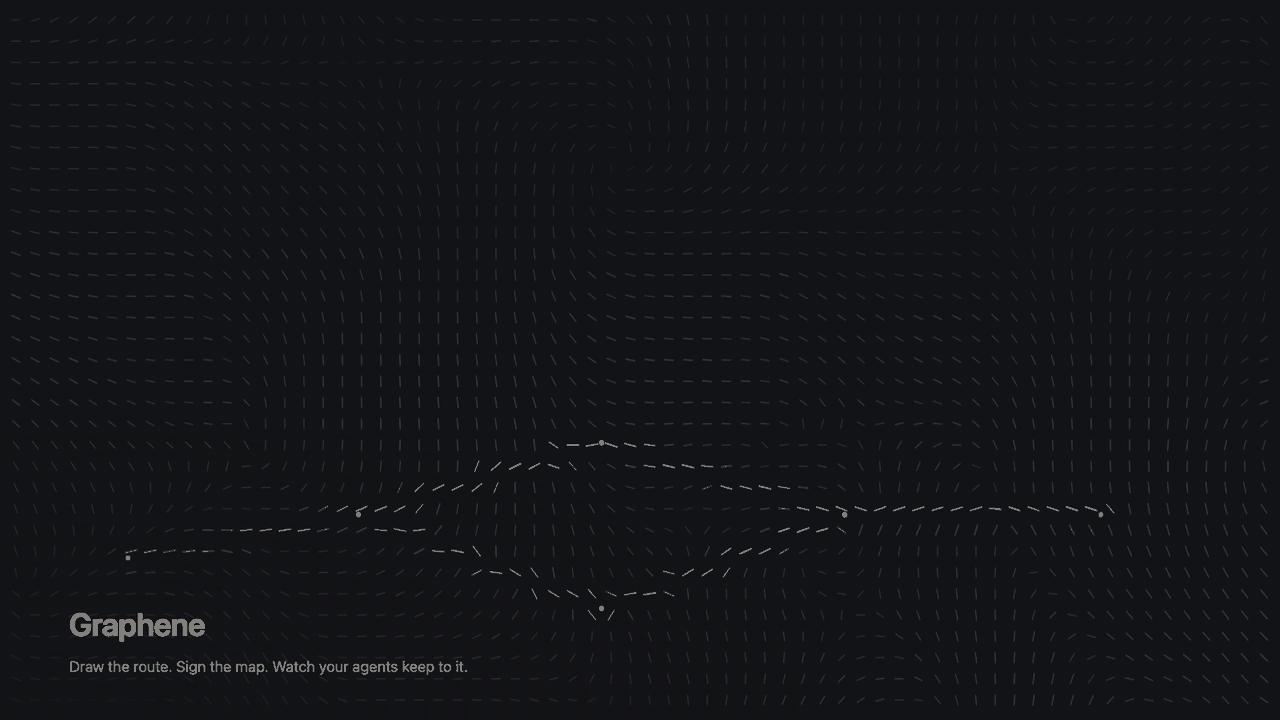
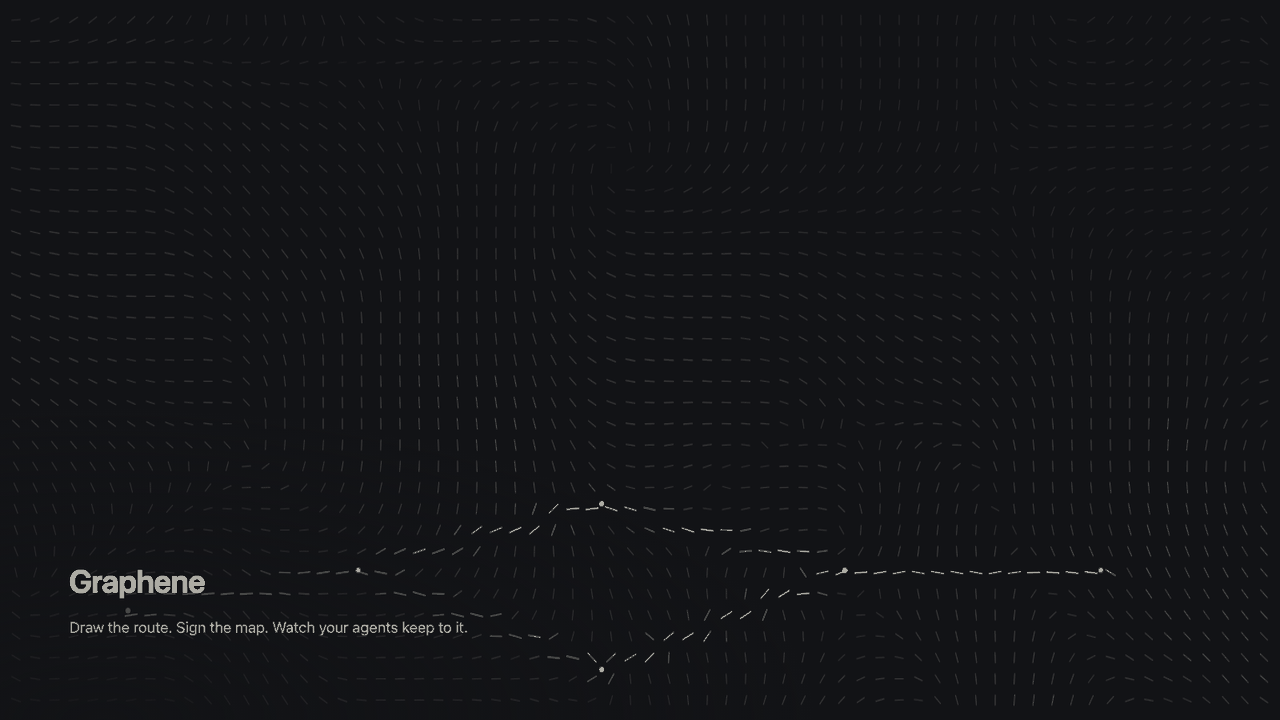
responsive, reduced-motion and no-JS fixes found by looking at renders
- one container class, so the text column, the figures, the terminal blocks and
  the proof table all share one left edge. Before this the section headings sat
  at a different margin from their own figures.
- the graphs are drawn by default and only hidden once JS has confirmed it can
  animate them back in, so with scripting off you get complete diagrams instead
  of nodes with no edges.
- arrowheads are part of the animated edge path, so they arrive with the line
  instead of before it.
- hero copy is top-aligned and the hidden DAG moved to 0.70-0.93 of the canvas,
  which keeps the resolved graph clear of the headline and buttons.
- the video slot used object-fit: cover, which zoomed and cropped the poster.
  contain fixes it; the poster wordmark moved up to clear the control bar.
- narrow viewports get a 'scroll sideways' label on the blocks that scroll.

Measured: at a true 380px viewport (checked in an iframe, because Chrome on
macOS clamps a real window to 500px) nothing overflows and scrollWidth equals
the viewport. Under prefers-reduced-motion the field paints one static frame
with the DAG resolved and the accent node visible.

Still not measured: Lighthouse.

diff --git a/index.html b/index.html
@@ -17,6 +17,7 @@
 <link rel="icon" href="assets/favicon.svg" type="image/svg+xml">
 <link rel="alternate icon" href="assets/favicon.png" sizes="32x32">
 <link rel="stylesheet" href="assets/site.css">
+<script>document.documentElement.className = "js";</script>
 </head>
 <body>
 <a class="skip" href="#main">Skip to content</a>
@@ -84,22 +85,13 @@
 <title id="dag-a-t">The demo mission as a directed graph</title>
 <desc id="dag-a-d">Left to right: goal, plan revision 1, two parallel worker tasks implement_report_json and implement_report_markdown, then assemble, then verify, then an isolated result commit. implement_report_json shows attempt 2 at fence 2 because its first check failed and the retry was authorised.</desc>
 <g class="edges">
-<path class="edge" style="--len:164" d="M 98.0 165.0 L 262.0 165.0"/>
-<path class="edge" style="--len:220" d="M 287.2 160.4 L 492.8 82.6"/>
-<path class="edge" style="--len:220" d="M 287.2 169.6 L 492.8 247.4"/>
-<path class="edge" style="--len:225" d="M 517.2 82.5 L 727.8 160.5"/>
-<path class="edge" style="--len:225" d="M 517.2 247.5 L 727.8 169.5"/>
-<path class="edge" style="--len:134" d="M 753.0 165.0 L 887.0 165.0"/>
-<path class="edge" style="--len:139" d="M 913.0 165.0 L 1052.0 165.0"/>
-</g>
-<g class="heads">
-<path class="head" transform="translate(262.0 165.0) rotate(0.0)" d="M -5.5 -3.4 L 0 0 L -5.5 3.4"/>
-<path class="head" transform="translate(492.8 82.6) rotate(-20.7)" d="M -5.5 -3.4 L 0 0 L -5.5 3.4"/>
-<path class="head" transform="translate(492.8 247.4) rotate(20.7)" d="M -5.5 -3.4 L 0 0 L -5.5 3.4"/>
-<path class="head" transform="translate(727.8 160.5) rotate(20.3)" d="M -5.5 -3.4 L 0 0 L -5.5 3.4"/>
-<path class="head" transform="translate(727.8 169.5) rotate(-20.3)" d="M -5.5 -3.4 L 0 0 L -5.5 3.4"/>
-<path class="head" transform="translate(887.0 165.0) rotate(0.0)" d="M -5.5 -3.4 L 0 0 L -5.5 3.4"/>
-<path class="head" transform="translate(1052.0 165.0) rotate(0.0)" d="M -5.5 -3.4 L 0 0 L -5.5 3.4"/>
+<path class="edge" style="--len:175" d="M 98.0 165.0 L 262.0 165.0 M 256.5 168.3 L 262.0 165.0 L 256.5 161.7"/>
+<path class="edge" style="--len:231" d="M 287.2 160.4 L 492.8 82.6 M 488.9 87.6 L 492.8 82.6 L 486.5 81.5"/>
+<path class="edge" style="--len:231" d="M 287.2 169.6 L 492.8 247.4 M 486.5 248.5 L 492.8 247.4 L 488.9 242.4"/>
+<path class="edge" style="--len:236" d="M 517.2 82.5 L 727.8 160.5 M 721.5 161.7 L 727.8 160.5 L 723.8 155.5"/>
+<path class="edge" style="--len:236" d="M 517.2 247.5 L 727.8 169.5 M 723.8 174.5 L 727.8 169.5 L 721.5 168.3"/>
+<path class="edge" style="--len:145" d="M 753.0 165.0 L 887.0 165.0 M 881.5 168.3 L 887.0 165.0 L 881.5 161.7"/>
+<path class="edge" style="--len:150" d="M 913.0 165.0 L 1052.0 165.0 M 1046.5 168.3 L 1052.0 165.0 L 1046.5 161.7"/>
 </g>
 <circle class="node" cx="85" cy="165" r="7"/>
 <circle class="node" cx="275" cy="165" r="7"/>
@@ -142,22 +134,13 @@
 <title id="dag-b-t">An illustrative rate-limiting mission as a directed graph</title>
 <desc id="dag-b-d">A scout task feeds two implementation tasks, rate_limit_middleware and rate_limit_config; both feed a tests task, the config task also feeds a docs task, and tests and docs both feed a verify task. Each node shows how many paths it may read and write.</desc>
 <g class="edges">
-<path class="edge" style="--len:237" d="M 112.4 155.9 L 337.6 82.1"/>
-<path class="edge" style="--len:237" d="M 112.4 164.1 L 337.6 237.9"/>
-<path class="edge" style="--len:264" d="M 363.0 78.0 L 627.0 78.0"/>
-<path class="edge" style="--len:307" d="M 361.3 235.6 L 628.7 84.4"/>
-<path class="edge" style="--len:264" d="M 363.0 242.0 L 627.0 242.0"/>
-<path class="edge" style="--len:247" d="M 652.4 81.9 L 887.6 156.1"/>
-<path class="edge" style="--len:247" d="M 652.4 238.1 L 887.6 163.9"/>
-</g>
-<g class="heads">
-<path class="head" transform="translate(337.6 82.1) rotate(-18.2)" d="M -5.5 -3.4 L 0 0 L -5.5 3.4"/>
-<path class="head" transform="translate(337.6 237.9) rotate(18.2)" d="M -5.5 -3.4 L 0 0 L -5.5 3.4"/>
-<path class="head" transform="translate(627.0 78.0) rotate(0.0)" d="M -5.5 -3.4 L 0 0 L -5.5 3.4"/>
-<path class="head" transform="translate(628.7 84.4) rotate(-29.5)" d="M -5.5 -3.4 L 0 0 L -5.5 3.4"/>
-<path class="head" transform="translate(627.0 242.0) rotate(0.0)" d="M -5.5 -3.4 L 0 0 L -5.5 3.4"/>
-<path class="head" transform="translate(887.6 156.1) rotate(17.5)" d="M -5.5 -3.4 L 0 0 L -5.5 3.4"/>
-<path class="head" transform="translate(887.6 163.9) rotate(-17.5)" d="M -5.5 -3.4 L 0 0 L -5.5 3.4"/>
+<path class="edge" style="--len:248" d="M 112.4 155.9 L 337.6 82.1 M 333.4 86.9 L 337.6 82.1 L 331.4 80.6"/>
+<path class="edge" style="--len:248" d="M 112.4 164.1 L 337.6 237.9 M 331.4 239.4 L 337.6 237.9 L 333.4 233.1"/>
+<path class="edge" style="--len:275" d="M 363.0 78.0 L 627.0 78.0 M 621.5 81.3 L 627.0 78.0 L 621.5 74.7"/>
+<path class="edge" style="--len:318" d="M 361.3 235.6 L 628.7 84.4 M 625.5 90.0 L 628.7 84.4 L 622.3 84.2"/>
+<path class="edge" style="--len:275" d="M 363.0 242.0 L 627.0 242.0 M 621.5 245.3 L 627.0 242.0 L 621.5 238.7"/>
+<path class="edge" style="--len:258" d="M 652.4 81.9 L 887.6 156.1 M 881.4 157.6 L 887.6 156.1 L 883.3 151.3"/>
+<path class="edge" style="--len:258" d="M 652.4 238.1 L 887.6 163.9 M 883.3 168.7 L 887.6 163.9 L 881.4 162.4"/>
 </g>
 <circle class="node" cx="100" cy="160" r="7"/>
 <circle class="node" cx="350" cy="78" r="7"/>
@@ -205,22 +188,13 @@
 <title id="dag-c-t">The same plan at revision 1 and revision 2, with different digests</title>
 <desc id="dag-c-d">Two copies of the same four-node plan. Revision 2 adds a docs task and an edge from it into assemble, drawn in the accent colour. Underneath, the two plan_sha256 digests are shown: they share no prefix.</desc>
 <g class="edges">
-<path class="edge" style="--len:159" d="M 82.6 49.1 L 237.4 86.9"/>
-<path class="edge" style="--len:159" d="M 82.6 130.9 L 237.4 93.1"/>
-<path class="edge" style="--len:124" d="M 263.0 90.0 L 387.0 90.0"/>
-<path class="edge" style="--len:159" d="M 682.6 49.1 L 837.4 86.9"/>
-<path class="edge" style="--len:159" d="M 682.6 130.9 L 837.4 93.1"/>
-<path class="edge" style="--len:124" d="M 863.0 90.0 L 987.0 90.0"/>
-<path class="edge-new" style="--len:197" d="M 680.5 214.3 L 839.5 97.7"/>
-</g>
-<g class="heads">
-<path class="head" transform="translate(237.4 86.9) rotate(13.7)" d="M -5.5 -3.4 L 0 0 L -5.5 3.4"/>
-<path class="head" transform="translate(237.4 93.1) rotate(-13.7)" d="M -5.5 -3.4 L 0 0 L -5.5 3.4"/>
-<path class="head" transform="translate(387.0 90.0) rotate(0.0)" d="M -5.5 -3.4 L 0 0 L -5.5 3.4"/>
-<path class="head" transform="translate(837.4 86.9) rotate(13.7)" d="M -5.5 -3.4 L 0 0 L -5.5 3.4"/>
-<path class="head" transform="translate(837.4 93.1) rotate(-13.7)" d="M -5.5 -3.4 L 0 0 L -5.5 3.4"/>
-<path class="head" transform="translate(987.0 90.0) rotate(0.0)" d="M -5.5 -3.4 L 0 0 L -5.5 3.4"/>
-<path class="head-new" transform="translate(839.5 97.7) rotate(-36.3)" d="M -5.5 -3.4 L 0 0 L -5.5 3.4"/>
+<path class="edge" style="--len:170" d="M 82.6 49.1 L 237.4 86.9 M 231.2 88.8 L 237.4 86.9 L 232.8 82.4"/>
+<path class="edge" style="--len:170" d="M 82.6 130.9 L 237.4 93.1 M 232.8 97.6 L 237.4 93.1 L 231.2 91.2"/>
+<path class="edge" style="--len:135" d="M 263.0 90.0 L 387.0 90.0 M 381.5 93.3 L 387.0 90.0 L 381.5 86.7"/>
+<path class="edge" style="--len:170" d="M 682.6 49.1 L 837.4 86.9 M 831.2 88.8 L 837.4 86.9 L 832.8 82.4"/>
+<path class="edge" style="--len:170" d="M 682.6 130.9 L 837.4 93.1 M 832.8 97.6 L 837.4 93.1 L 831.2 91.2"/>
+<path class="edge" style="--len:135" d="M 863.0 90.0 L 987.0 90.0 M 981.5 93.3 L 987.0 90.0 L 981.5 86.7"/>
+<path class="edge-new" style="--len:208" d="M 680.5 214.3 L 839.5 97.7 M 837.0 103.6 L 839.5 97.7 L 833.1 98.3"/>
 </g>
 <circle class="node" cx="70" cy="46" r="7"/>
 <circle class="node" cx="70" cy="134" r="7"/>
@@ -369,20 +343,20 @@ TRUST: every line above is derived from hash-chained mission events and resolvab
         <tr><td>Mission capsule export and cold verification</td><td><span class="label yes">verified_live_cold</span><br>MISSION CAPSULE — COLD-VERIFIED FROM A CLEAN CHECKOUT ON LIVE GEMINI MISSIONS; INTERNAL CONSISTENCY, NOT PRODUCER AUTHENTICITY</td></tr>
         <tr><td>Final bundle verification receipt</td><td><span class="label yes">verified_local</span><br>register_final_result_bundle fails closed unless a repository-aware recompute is bound, runs it, and issues a FinalBundleVerificationReceiptV1 into the FINAL_RESULT_BUNDLE_READY event. Approval, rejection and cold verification all refuse a bundle that does not carry a server receipt binding it exactly. The adversarial test that used to document the hole now enforces the fix.</td></tr>
         <tr><td>Planner reads the commit workers clone</td><td><span class="label yes">verified_local</span><br>Planning reads the manifest from `git ls-tree -r -l -z --full-tree &lt;base_sha&gt;` and excerpt bytes from `git cat-file blob`, so the planner sees exactly the commit the workers clone and detach to. Tracked or staged drift from that commit is rejected by name before any byte is selected. No path under the repository is opened during planning, which removes the intermediate-directory-symlink escape by construction rather than by a stronger open().</td></tr>
-        <tr><td>Working-tree integrity (v2 store, tree hashing)</td><td><span class="label yes">credential_free_release_matrix_verified</span><br></td></tr>
+        <tr><td>Working-tree integrity (v2 store, tree hashing)</td><td><span class="label yes">credential_free_release_matrix_verified</span><br>Only check.completed from the check-runner authority can bind deterministic success to the exact attempt/fence, plan/policy, inputs, template, candidate tree, and result.</td></tr>
         <tr><td>Mission path: live Gemini ADK planner</td><td><span class="label yes">verified_live</span><br>VERIFIED LIVE — gemini-3.5-flash ON VERTEX AI (global); TWO WORKERS WITH EVIDENCE-BOUND RECEIPTS AND DUAL-CLOCK OVERLAP; OPERATOR-DELEGATED (server_derived) APPROVAL, NOT HUMAN-ATTESTED</td></tr>
         <tr><td>Mission path: ADK runner, deterministic fake planner</td><td><span class="label yes">verified_local</span><br>REAL ADK RUNNER + DETERMINISTIC FAKE PLANNER — NOT GEMINI OR MODEL-WORKER PROOF</td></tr>
         <tr><td>Mission path: scripted local fixture</td><td><span class="label yes">verified_local</span><br>SCRIPTED LOCAL MISSION FIXTURE — NOT GEMINI, ARBITRARY-REPOSITORY, OR CLOUD PROOF</td></tr>
         <tr><td>Mission path: verified mission replay</td><td><span class="label yes">verified_local</span><br>VERIFIED MISSION REPLAY — GENERATED SCRIPTED FIXTURE; NO LIVE AGENT, HUMAN ATTESTATION, NEW TEST EXECUTION, GEMINI, OR CLOUD</td></tr>
         <tr><td>Watcher (inbox and GitHub issue triggers)</td><td><span class="label yes">verified_local</span><br>WATCHER — VERIFIED_LOCAL ON FIXTURES; LIVE GITHUB POLLING NOT PROVEN</td></tr>
         <tr><td>Cloud check authority</td><td><span class="label part">executor_attested</span><br>For the cloud dispatch path an authenticated remote executor is part of the trusted computing base. The coordinator recomputes the receipt&#x27;s bindings — mission/task/attempt/plan/fence/policy identity, the exact publication envelopes, and the receipt-to-evidence digest — and does NOT recompute template_sha256, candidate_tree_sha256, output_sha256, exit_code, timed_out or cleanup_complete, nor re-run any check. A hand-built passing receipt with arbitrary digests is accepted at this boundary by design. Every successful cloud completion records check_authority: executor_attested in the committed task.completed payload, inside payload_sha256 and the event_sha256 chain.</td></tr>
-        <tr><td>Cloud abandon and second-executor transitions</td><td><span class="label yes">fails_closed</span><br></td></tr>
+        <tr><td>Cloud abandon and second-executor transitions</td><td><span class="label yes">fails_closed</span><br>Refused at registration with MultiExecutorUnsupported -&gt; 409 MULTI_EXECUTOR_UNSUPPORTED. One mission-wide expected head means a second executor&#x27;s claim would conflict at a random later moment; it now fails closed immediately with a named reason. Same-id reconnect still works and a session idle past the lease bound stops blocking. Cloud parallelism is NOT claimed anywhere.</td></tr>
         <tr><td>Docker isolated executor</td><td><span class="label no">not_proven</span><br>NOT PROVEN — RESPONSIVE DAEMON AND BUILT IMMUTABLE IMAGE REQUIRED</td></tr>
         <tr><td>Cloud Run and Firestore deployment</td><td><span class="label no">not_deployed</span><br>NOT DEPLOYED — AUTHORIZED PROJECT, GCLOUD, DEPLOYMENT, AND CAPTURED SMOKE REQUIRED</td></tr>
         <tr><td>Live cloud delivery gate</td><td><span class="label no">not_deployed</span><br>Cloud Run/real Firestore requires an explicitly authorized project and captured authenticated smoke; packaging, unit tests, and the verified official emulator are not deployment proof.</td></tr>
         <tr><td>Graph economics benchmark</td><td><span class="label no">not_proven</span><br>The equal-quality-gate, three-mode, non-overwriting harness has a credential-free unit test. No real repeated run, token/cost/latency result, median, or P95 is claimed.</td></tr>
         <tr><td>Shadow agent (Claude Code ingest)</td><td><span class="label no">not_proven</span><br>SHADOW AGENT v0 — NDJSON AND CLAUDE-CODE ADAPTERS VERIFIED LOCALLY ON SYNTHETIC FIXTURES; REAL CLAUDE CODE SESSION INGESTED ONLY IN A PRIVATE COUNTS-ONLY SMOKE, NOT PROVEN</td></tr>
-        <tr><td>Product media and submission video</td><td><span class="label no">not_proven_capture_pending</span><br></td></tr>
+        <tr><td>Product media and submission video</td><td><span class="label no">not_proven_capture_pending</span><br>docs/assets/demo-capture.json records the verified replay source/checkpoint, but no reproducible screenshot, GIF, or four-minute submission video has completed. No product media or video proof is claimed.</td></tr>
       </tbody>
     </table>
     <p class="small muted">Deferred, and not claimed anywhere:</p>
@@ -401,7 +375,7 @@ TRUST: every line above is derived from hash-chained mission events and resolvab
 <!--DEMOSLOT-->
     <div class="slot">
       <video controls preload="none" poster="assets/poster.png"
-             width="1600" height="900">
+             width="1280" height="720">
         <source src="assets/demo.mp4" type="video/mp4">
         <p>Your browser cannot play this video. <a href="assets/demo.mp4">Download it instead.</a></p>
       </video>

diff --git a/assets/site.css b/assets/site.css
@@ -40,14 +40,14 @@ p, figcaption, .term-cap, .digests, .fields, ul.deferred { max-width: var(--meas
 
 /* ---- hero --------------------------------------------------------- */
 
-.hero { position: relative; min-height: min(70vh, 860px); display: flex; align-items: center; }
+.hero { position: relative; min-height: min(78vh, 900px); display: flex; align-items: flex-start; }
 .hero canvas { position: absolute; inset: 0; width: 100%; height: 100%; display: block; }
 /* the one gradient on the page: a vignette under 4% luminance */
 .hero::after {
   content: ""; position: absolute; inset: 0; pointer-events: none;
   background: radial-gradient(120% 90% at 50% 30%, transparent 55%, rgba(0,0,0,.12));
 }
-.hero .wrap { position: relative; z-index: 1; padding-block: 96px 120px; }
+.hero .wrap { position: relative; z-index: 1; padding-block: 104px 140px; }
 .hero .mark { font-weight: 600; letter-spacing: -.01em; margin: 0 0 26px; font-size: 1.05rem; }
 
 h1 {
@@ -93,25 +93,27 @@ figure:first-of-type { margin-top: 40px; }
 figcaption { color: var(--ink-muted); font-size: .88rem; margin-top: 14px; max-width: 68ch; }
 figcaption b { color: var(--ink); font-weight: 600; }
 
-.dag .edge { fill: none; stroke: var(--ink-muted); stroke-width: 1; }
+.dag .edge { fill: none; stroke: var(--ink-muted); stroke-width: 1;
+             stroke-linecap: round; stroke-linejoin: round; }
 .dag .edge-new { stroke: var(--accent); stroke-width: 1.25; }
 .dag .node { fill: var(--bg-raised); stroke: var(--ink); stroke-width: 1.25; }
 .dag .node-new { stroke: var(--accent); }
 .dag .lbl { fill: var(--ink); font: 400 13px/1 var(--font-mono); }
 .dag .sub { fill: var(--ink-muted); font: 400 11px/1 var(--font-sans); }
-.dag .head { fill: none; stroke: var(--ink-muted); stroke-width: 1;
-             stroke-linecap: round; stroke-linejoin: round; opacity: 0; }
-.dag .head-new { fill: none; stroke: var(--accent); stroke-width: 1.25;
-                 stroke-linecap: round; stroke-linejoin: round; opacity: 0; }
-.dag.in .head, .dag.in .head-new { opacity: 1; transition: opacity 400ms 700ms linear; }
 .dag .glyph { fill: var(--ink); font: 400 12px/1 var(--font-mono); }
 .dag .glyph-accent { fill: var(--accent); }
 .dag .lane { stroke: var(--hairline); stroke-width: 1; }
 .dag .lane-lbl { fill: var(--ink-muted); font: 400 10px/1 var(--font-sans); letter-spacing: .08em; text-transform: uppercase; }
 
-/* one-shot draw-in, never a loop */
-.dag .edge, .dag .edge-new { stroke-dasharray: var(--len, 400); stroke-dashoffset: var(--len, 400); }
-.dag.in .edge, .dag.in .edge-new { transition: stroke-dashoffset 900ms cubic-bezier(.2,.7,.3,1); stroke-dashoffset: 0; }
+/* One-shot draw-in, never a loop. Only hidden once JS has confirmed it can
+   reveal them again, so the graphs are complete with scripting off. */
+.js .dag:not(.in) .edge, .js .dag:not(.in) .edge-new {
+  stroke-dasharray: var(--len, 400); stroke-dashoffset: var(--len, 400);
+}
+.js .dag.in .edge, .js .dag.in .edge-new {
+  stroke-dasharray: var(--len, 400);
+  transition: stroke-dashoffset 900ms cubic-bezier(.2,.7,.3,1); stroke-dashoffset: 0;
+}
 
 /* ---- contract field table ----------------------------------------- */
 
@@ -157,22 +159,33 @@ pre b { font-weight: 400; color: var(--accent); }
 /* ---- video -------------------------------------------------------- */
 
 .slot { border: 1px solid var(--hairline); background: var(--bg-raised); }
-.slot video, .slot img { display: block; width: 100%; aspect-ratio: 16 / 9; object-fit: cover; }
+.slot video, .slot img { display: block; width: 100%; height: auto; aspect-ratio: 16 / 9;
+                         object-fit: contain; background: var(--bg); }
 
 /* ---- footer ------------------------------------------------------- */
 
 footer { border-top: 1px solid var(--hairline); padding: 40px 0 64px; color: var(--ink-muted); font-size: .88rem; }
 footer ul { display: flex; flex-wrap: wrap; gap: 20px; margin: 10px 0 0; padding: 0; list-style: none; }
 
+@media (max-width: 760px) {
+  #loop figure::before, #terminal figure::before {
+    content: "Scroll sideways to see all of it";
+    display: block; margin-bottom: 10px;
+    font-size: .76rem; letter-spacing: .1em; text-transform: uppercase; color: var(--ink-muted);
+  }
+}
+
 @media (max-width: 720px) {
   body { font-size: 16px; }
-  .hero .wrap { padding-block: 64px 96px; }
+  .hero .wrap { padding-block: 64px 120px; }
   .term-cap div { grid-template-columns: 1fr; gap: 2px; }
   .term-cap div + div { margin-top: 10px; }
 }
 
 @media (prefers-reduced-motion: reduce) {
-  .dag .edge, .dag .edge-new { stroke-dasharray: none; stroke-dashoffset: 0; }
-  .dag.in .edge, .dag.in .edge-new { transition: none; }
+  .js .dag .edge, .js .dag .edge-new,
+  .js .dag:not(.in) .edge, .js .dag:not(.in) .edge-new {
+    stroke-dasharray: none; stroke-dashoffset: 0; transition: none;
+  }
   * { scroll-behavior: auto !important; }
 }

diff --git a/scripts/viewports.html b/scripts/viewports.html
@@ -1,0 +1,11 @@
+<!doctype html><meta charset="utf-8"><title>Graphene at narrow widths</title>
+<!-- Chrome clamps a real window to ~500px on macOS, so narrow widths are checked
+     inside iframes, whose layout viewport is exactly the width given here.
+     Serve the repo root (python3 -m http.server) and open this file. -->
+<style>
+  body{margin:0;background:#000;display:flex;gap:16px;padding:16px;font:12px system-ui;color:#888}
+  figure{margin:0}
+  iframe{border:1px solid #333;display:block;background:#121316}
+</style>
+<figure><figcaption>380 x 3400</figcaption><iframe src="../index.html" width="380" height="3400"></iframe></figure>
+<figure><figcaption>768 x 3400</figcaption><iframe src="../index.html" width="768" height="3400"></iframe></figure>

diff --git a/scripts/og.html b/scripts/og.html
@@ -10,9 +10,9 @@
   /* image asset only: keeps the wordmark legible over the field */
   .scrim{position:absolute;inset:0;background:
     radial-gradient(90% 70% at 8% 100%, rgba(18,19,22,.92), rgba(18,19,22,0) 62%)}
-  .mark{position:absolute;left:5.4%;bottom:11%;margin:0;
+  .mark{position:absolute;left:5.4%;bottom:17%;margin:0;
         font:600 4.4vh/1 var(--font-sans);letter-spacing:-.02em;color:var(--ink)}
-  .sub{position:absolute;left:5.4%;bottom:6%;margin:0;
+  .sub{position:absolute;left:5.4%;bottom:11.5%;margin:0;
        font:400 2.1vh/1.3 var(--font-sans);color:var(--ink-muted)}
 </style>
 <div class="frame">

diff --git a/assets/field.js b/assets/field.js
@@ -39,8 +39,8 @@
   /* ---- the hidden mission DAG, in normalised hero coordinates --------- */
 
   var NODES = [
-    [0.10, 0.775], [0.28, 0.715], [0.47, 0.615],
-    [0.47, 0.845], [0.66, 0.715], [0.86, 0.715]
+    [0.10, 0.848], [0.28, 0.792], [0.47, 0.700],
+    [0.47, 0.930], [0.66, 0.792], [0.86, 0.792]
   ];
   var EDGES = [[0, 1], [1, 2], [1, 3], [2, 4], [3, 4], [4, 5]];
   var VERIFIED = 5;               /* the one node that gets the accent */

diff --git a/scripts/refresh.py b/scripts/refresh.py
@@ -54,7 +54,7 @@ CAPTIONS = [
 ]
 
 # capability -> where its label lives in contracts/product_proof.json
-ROWS = [
+ROWS = [  # (label shown, path into the JSON, optional key to prefer for the detail line)
     ("Credential-free core test matrix", ["delivery_gates", "credential_free_core"]),
     ("Live Gemini planning and two workers", ["delivery_gates", "live_gemini"]),
     ("Failure-aware retry", ["failure_aware_retry"]),
@@ -62,20 +62,20 @@ ROWS = [
     ("Mission capsule export and cold verification", ["mission_capsule"]),
     ("Final bundle verification receipt", ["final_bundle_authority"]),
     ("Planner reads the commit workers clone", ["planning_source_binding"]),
-    ("Working-tree integrity (v2 store, tree hashing)", ["working_tree_integrity"]),
+    ("Working-tree integrity (v2 store, tree hashing)", ["working_tree_integrity"], "trusted_checks"),
     ("Mission path: live Gemini ADK planner", ["mission_paths", "gemini-adk-planner"]),
     ("Mission path: ADK runner, deterministic fake planner", ["mission_paths", "adk-fake-planner"]),
     ("Mission path: scripted local fixture", ["mission_paths", "scripted-local"]),
     ("Mission path: verified mission replay", ["mission_paths", "verified-mission-replay"]),
     ("Watcher (inbox and GitHub issue triggers)", ["watch"]),
     ("Cloud check authority", ["cloud_check_authority"]),
-    ("Cloud abandon and second-executor transitions", ["cloud_unsupported_transitions"]),
+    ("Cloud abandon and second-executor transitions", ["cloud_unsupported_transitions"], "multi_executor"),
     ("Docker isolated executor", ["mission_paths", "docker-executor"]),
     ("Cloud Run and Firestore deployment", ["mission_paths", "cloud-run-firestore"]),
     ("Live cloud delivery gate", ["delivery_gates", "live_cloud"]),
     ("Graph economics benchmark", ["graph_economics"]),
     ("Shadow agent (Claude Code ingest)", ["shadow_agent"]),
-    ("Product media and submission video", ["product_media"]),
+    ("Product media and submission video", ["product_media"], "blocker"),
 ]
 
 GOOD = {"verified_live", "verified_live_cold", "verified_local",
@@ -89,13 +89,16 @@ def dig(doc, path):
     return doc
 
 
-def detail(obj):
+def detail(obj, prefer=None):
     """The most specific honest sentence this object carries."""
-    for key in ("truth_label", "truth", "limit", "sentence", "evidence"):
+    keys = ([prefer] if prefer else []) + ["truth_label", "truth", "limit", "sentence", "evidence"]
+    for key in keys:
         value = obj.get(key)
         if isinstance(value, str) and value:
             return value
-    return ""
+    # last resort: the longest string field that is not the status label
+    strings = [v for k, v in sorted(obj.items()) if k != "status" and isinstance(v, str)]
+    return max(strings, key=len) if strings else ""
 
 
 def pre_block(repo, src, first, last, command, caption, sha):
@@ -126,14 +129,15 @@ def build_proof(proof, sha, date):
            '      <thead><tr><th scope="col">Capability</th>'
            '<th scope="col">Label, and what it is limited to</th></tr></thead>',
            '      <tbody>']
-    for name, path in ROWS:
+    for row in ROWS:
+        name, path, prefer = (row + (None,))[:3]
         obj = dig(proof, path)
         status = obj.get("status", "")
         cls = "yes" if status in GOOD else "no" if status in BAD else "part"
         out.append(
             f'        <tr><td>{html.escape(name)}</td><td>'
             f'<span class="label {cls}">{html.escape(status)}</span><br>'
-            f'{html.escape(detail(obj))}</td></tr>')
+            f'{html.escape(detail(obj, prefer))}</td></tr>')
     out.append('      </tbody>')
     out.append('    </table>')
     deferred = "".join(f'<li>{html.escape(d)}</li>' for d in proof.get("deferred", []))
@@ -153,7 +157,7 @@ def build_proof(proof, sha, date):
 
 DEMO = """    <div class="slot">
       <video controls preload="none" poster="assets/poster.png"
-             width="1600" height="900">
+             width="1280" height="720">
         <source src="assets/demo.mp4" type="video/mp4">
         <p>Your browser cannot play this video. <a href="assets/demo.mp4">Download it instead.</a></p>
       </video>
